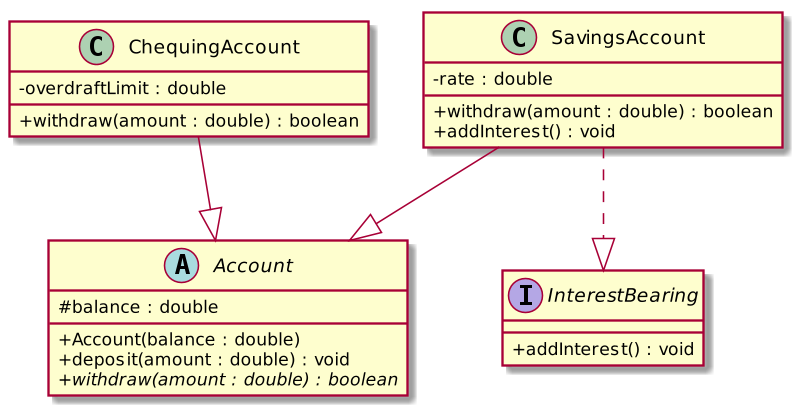
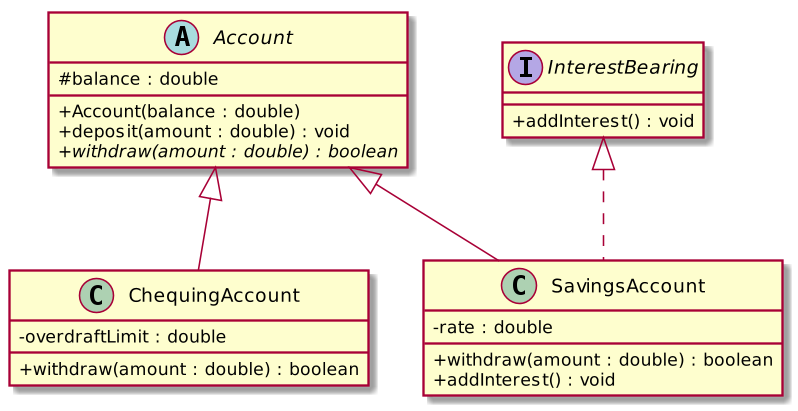
fix chapter 3 diagrams and add an exercise

diff --git a/03-relationships-between-classes.md b/03-relationships-between-classes.md
@@ -986,6 +986,15 @@ class ElectricCar extends Car implements Chargeable {
 }
 ```
 
+You can draw your answer in text with **PlantUML**: a starter file is provided at
+[plantuml/exercises/vehicles-uml-starter.puml](plantuml/exercises/vehicles-uml-starter.puml)
+(one box is filled in for you, with a syntax cheat-sheet in the comments). Open
+it in IntelliJ with the **PlantUML Integration** plugin installed (it uses
+Graphviz to lay out class diagrams) and a live preview renders beside the file as
+you type — so you can build your diagram and watch it take shape, then check it
+against the solution below. This is the same `.puml` format the diagrams in these
+notes are written in.
+
 <details>
 <summary>Show answer</summary>
 
